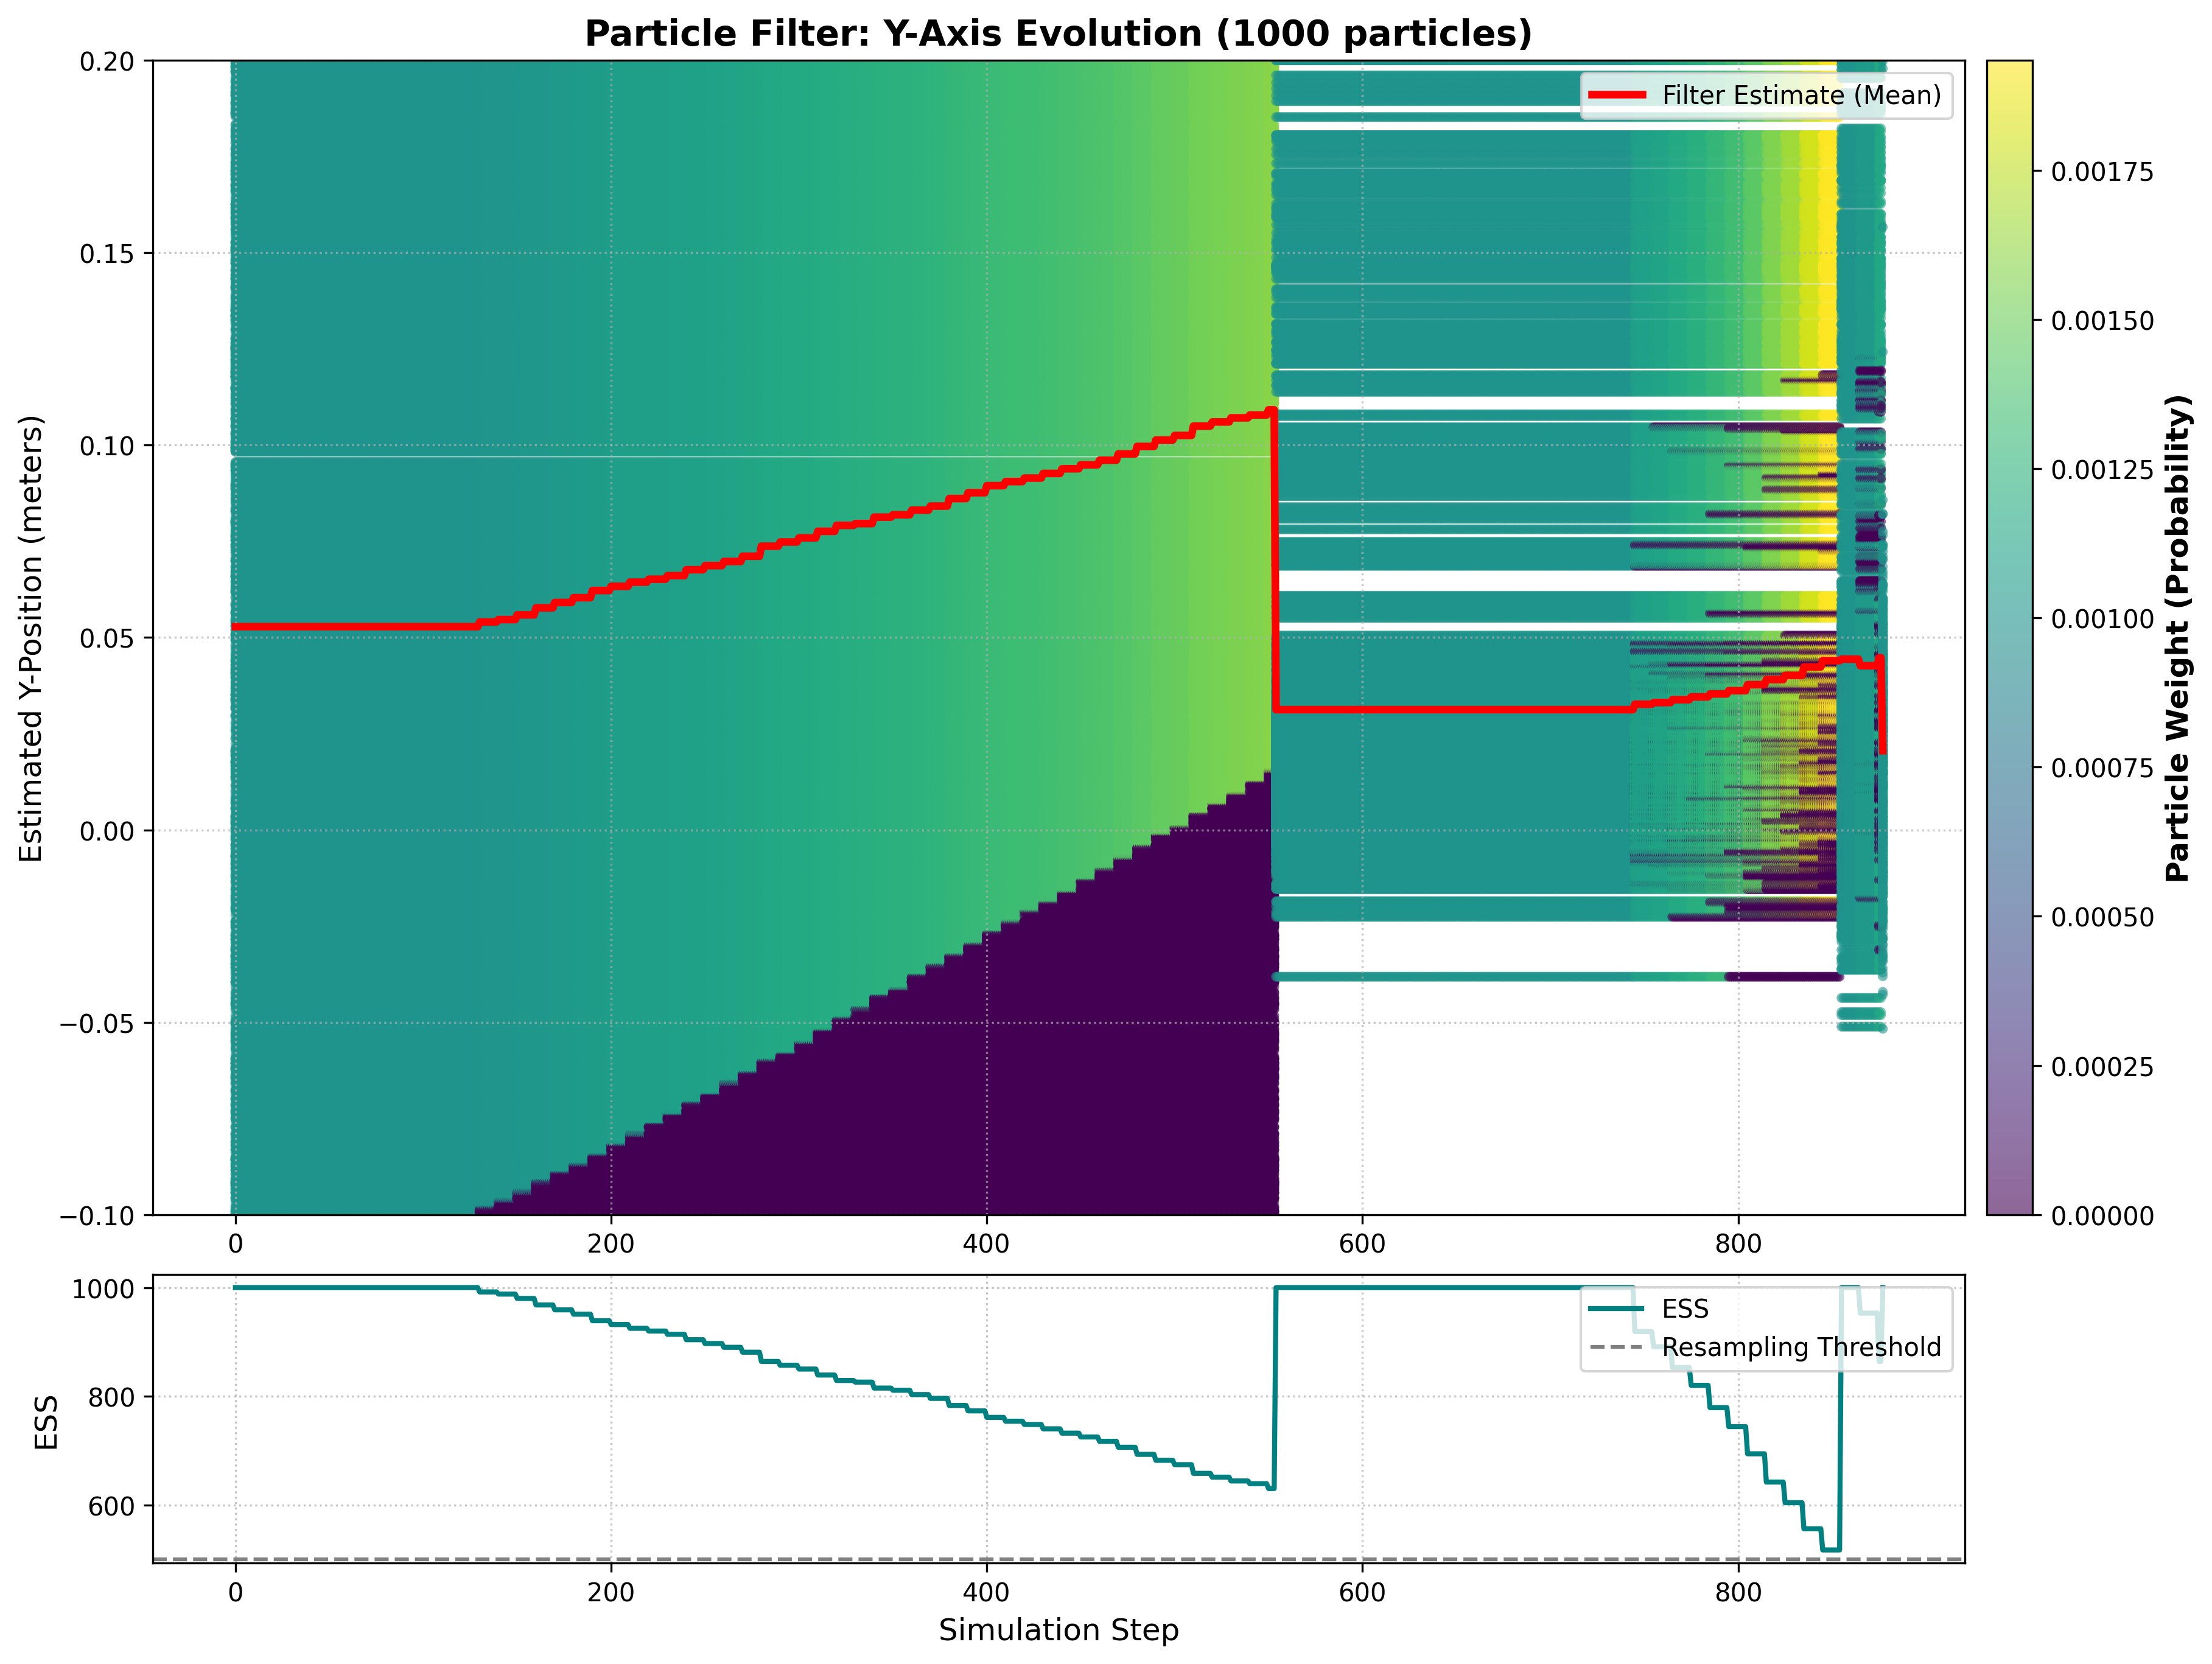
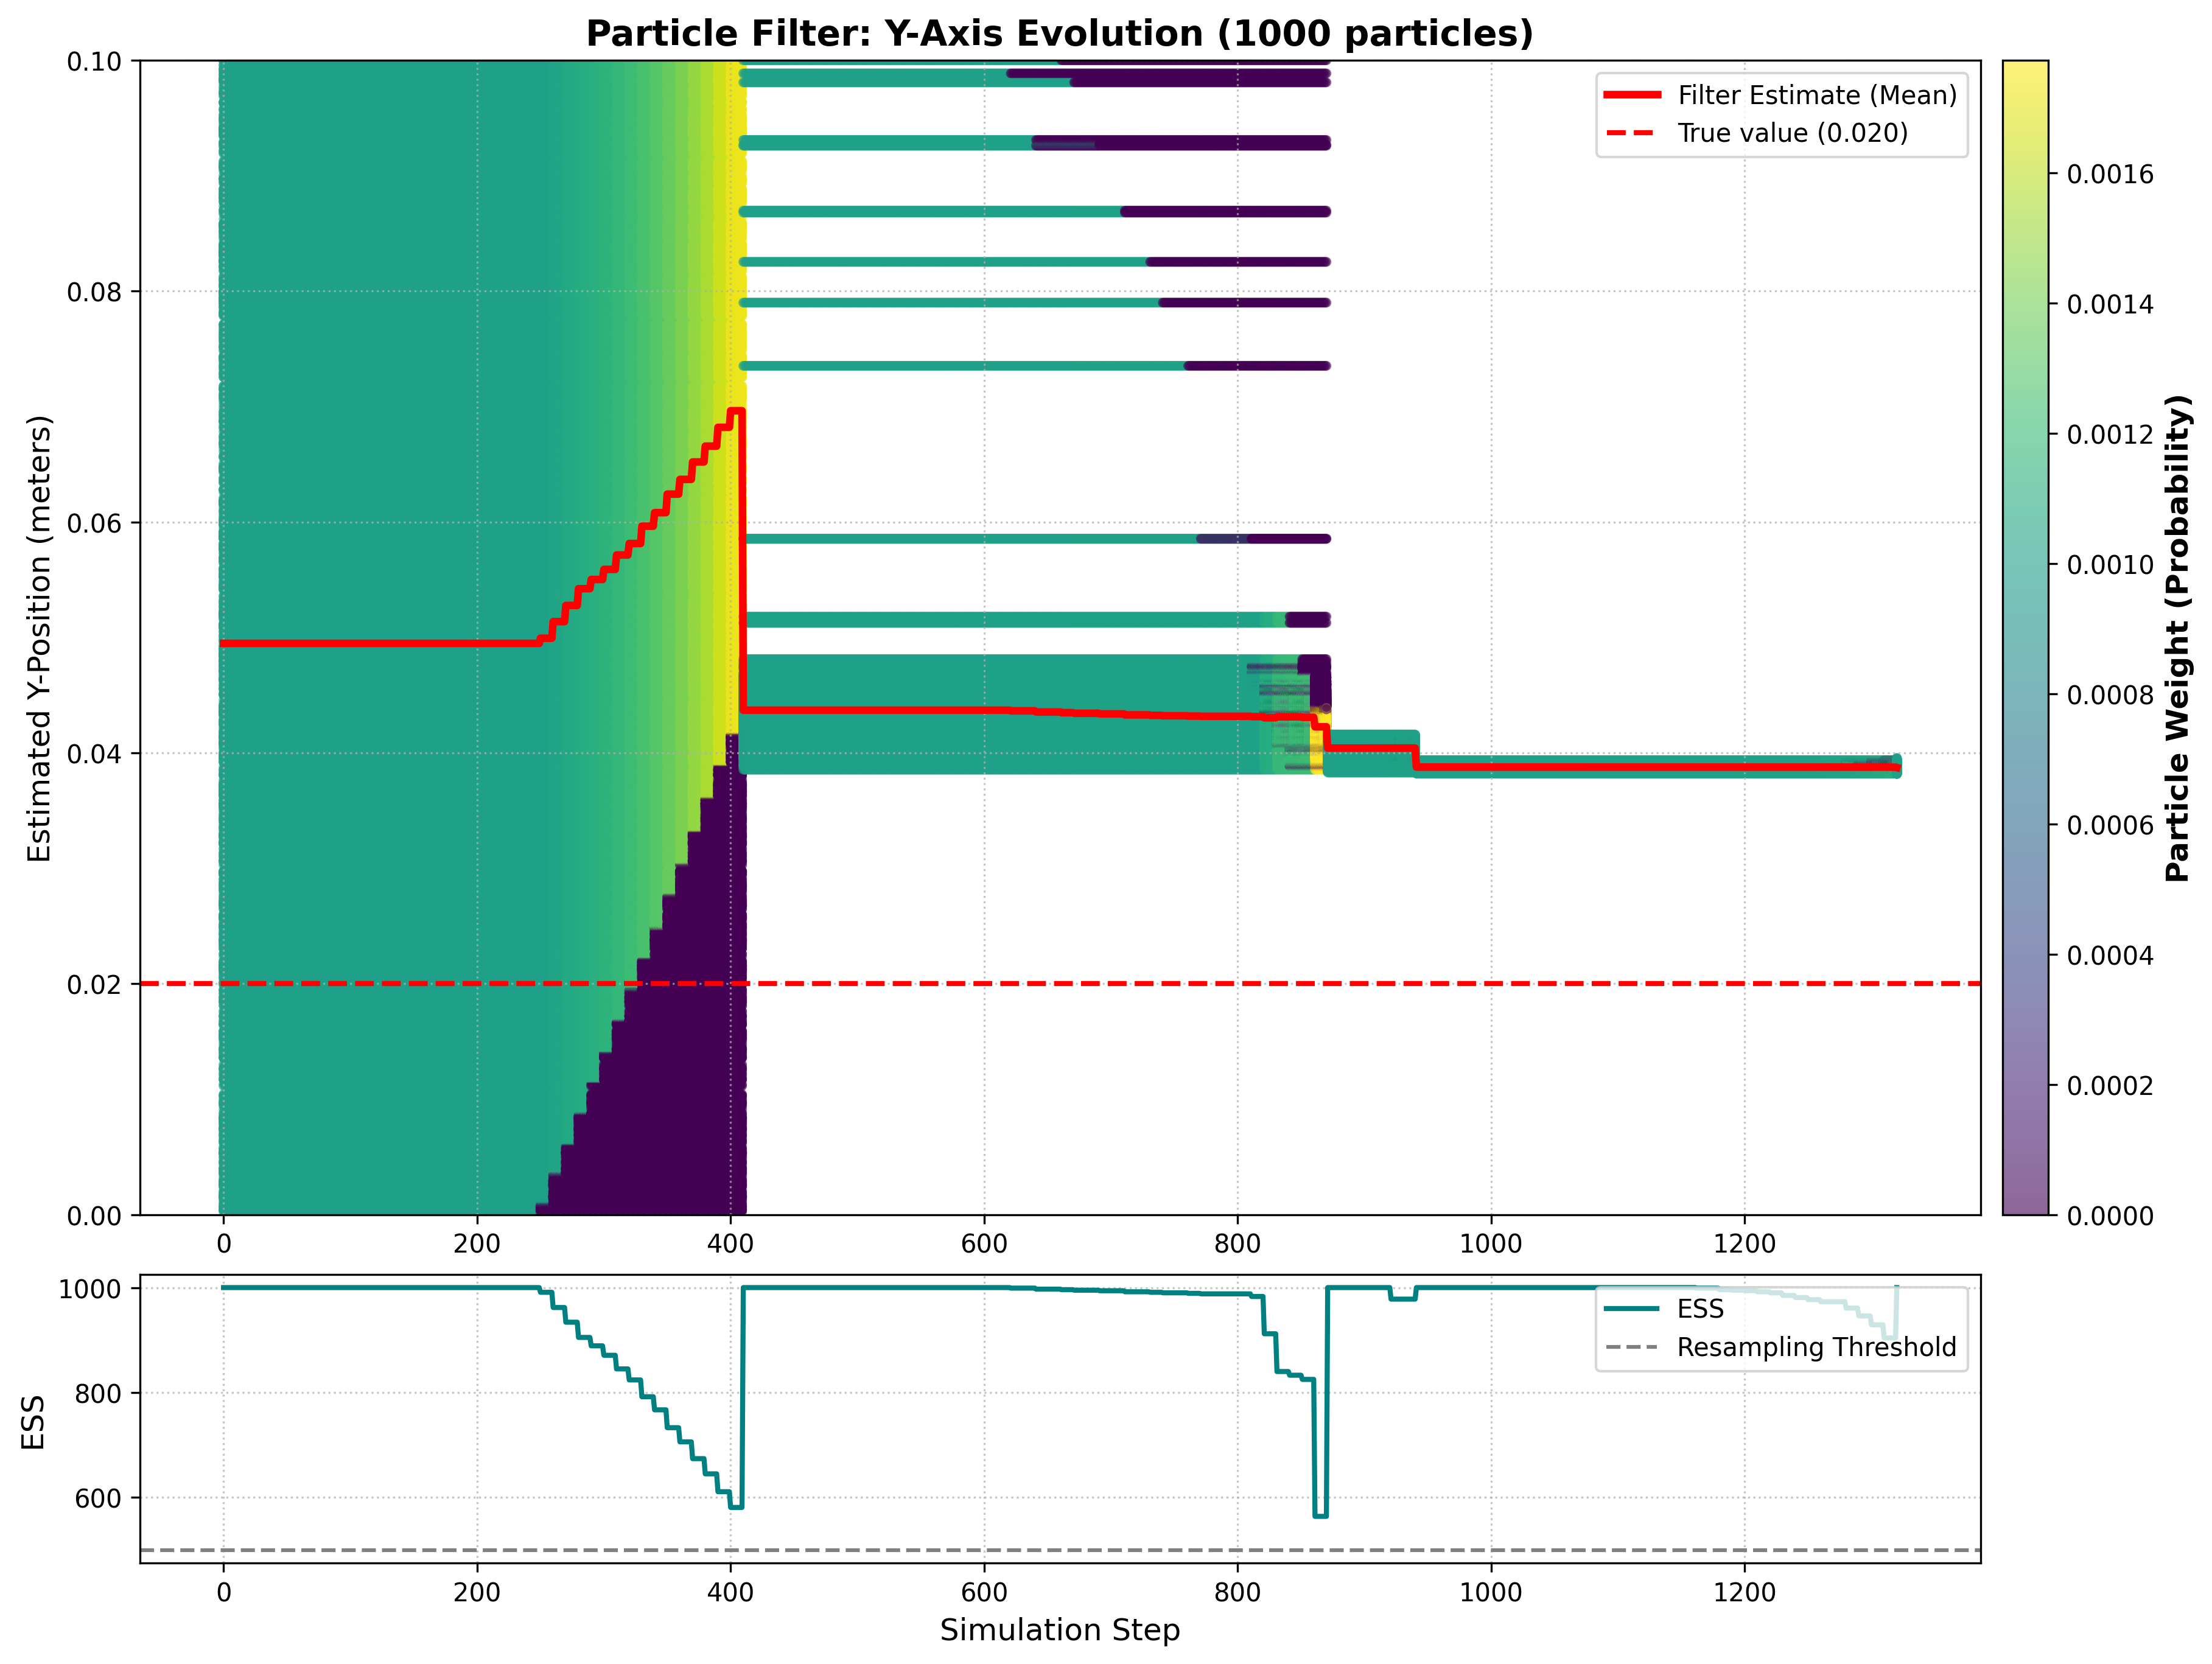
debug

diff --git a/src/skills/real_sweep.py b/src/skills/real_sweep.py
@@ -21,6 +21,11 @@ class ParticleVisualizer(Node):
     def publish_particles(self, particles, weights, fixed_x=0.55, fixed_z=0.09):
         marker_array = MarkerArray()
         
+        # 1. Wipe old RViz ghosts before drawing
+        clear_marker = Marker()
+        clear_marker.action = 3  # Marker.DELETEALL
+        marker_array.markers.append(clear_marker)
+        
         max_weight = max(weights) if len(weights) > 0 else 1.0
         if max_weight < 1e-8: max_weight = 1.0
         
@@ -32,44 +37,42 @@ class ParticleVisualizer(Node):
             marker.header.stamp = self.get_clock().now().to_msg()
             marker.ns = "particles"
             marker.id = i
-            marker.type = Marker.MESH_RESOURCE
-            marker.mesh_resource = "file:///home/lasigerobot24/Desktop/Simbay/models/Task_Board_TBv2023_m3b.stl"
+            
+            # ==========================================
+            # THE DOT VISUALS
+            # ==========================================
+            marker.type = Marker.SPHERE
             marker.action = Marker.ADD
             
-            # --- BOX DIMENSIONS (Meters) ---
-            box_length = 1.0#0.25  # 25 cm (X)
-            box_width  = 1.0#.15  # 15 cm (Y)
-            box_height = 1.0#0.08  # 8 cm  (Z)
+            # --- DOT SIZE (Meters) ---
+            dot_diameter = 0.01  # 1 cm diameter sphere
+            marker.scale.x = dot_diameter
+            marker.scale.y = dot_diameter
+            marker.scale.z = dot_diameter
+            
+            # --- DOT COLOR ---
+            marker.color.r = 0.0
+            marker.color.g = 1.0
+            marker.color.b = 1.0
+            
+            # Adjust transparency based on weight
+            relative_weight = weights[i] / max_weight
+            marker.color.a = max(0.1, float(relative_weight)) # Increased base alpha to 0.1 so small dots are visible
+            # ==========================================
             
             # --- MAP MATH TO 3D SPACE ---
             if dim == 1:
                 marker.pose.position.x = float(fixed_x)
                 marker.pose.position.y = float(particles[i] if particles.ndim == 1 else particles[i, 0])
-                # Assuming table is at Z=0.0 in the base frame! 
-                marker.pose.position.z = 0.05#box_height / 2.0
+                marker.pose.position.z = 0.05
             elif dim == 2:
                 marker.pose.position.x = float(particles[i, 0])
                 marker.pose.position.y = float(particles[i, 1])
-                marker.pose.position.z = 0.05#box_height / 2.0
+                marker.pose.position.z = 0.05
                 
             marker.pose.orientation.w = 1.0
             
-            # --- SIZE & COLOR ---
-            marker.scale.x = box_length
-            marker.scale.y = box_width
-            marker.scale.z = box_height
-            
-            # Color: Cyan/Blue
-            marker.color.r = 0.0
-            marker.color.g = 1.0
-            marker.color.b = 1.0
-            
-            # Transparency: Kept very low (0.02) because 50 large overlapping 
-            # boxes will quickly turn into a solid blue wall!
-            relative_weight = weights[i] / max_weight
-            marker.color.a = max(0.02, float(relative_weight))/2.0
-            
-            # Put the box into the array!
+            # Put the dot into the array!
             marker_array.markers.append(marker)
             
         # Publish the full array
@@ -130,8 +133,6 @@ def real_sweep_until_contact(robot, particle_filter, start_pos, end_pos, target_
         if elapsed_time > total_duration:
             break
             
-        planned_qpos = get_interpolated_qpos(sweep_traj, robot.dt, elapsed_time)
-
         full_measurements = robot.get_torque_reads() 
         current_torque_norm = np.linalg.norm(full_measurements[:3]) 
         
@@ -172,12 +173,12 @@ def real_sweep_until_contact(robot, particle_filter, start_pos, end_pos, target_
             'torques'  : full_measurements,
             'contact'  : contact,      
             'direction': sweep_direction,
-            'arm_pos'  : robot.get_ee_pos(), 
+            'arm_pos'  : current_ee_pos,
             'step_size': step_size
         }
         
         ctrl = {
-            'joints' : planned_qpos, 
+            'joints' : real_qpos,
             'gripper': 0.00
         }
         

diff --git a/src/estimation/particle_filter.py b/src/estimation/particle_filter.py
@@ -89,6 +89,7 @@ class ParticleFilterRegularized:
             # AND it must not be a Zombie (its accumulated weight must equal the max_weight)
             # (We multiply by 0.99 just to allow for microscopic floating-point rounding errors)
             perfect_mask = (likelihoods >= 0.99) & (new_weights >= max_weight * 0.99) & (max_weight > 0)
+            contact_mask = likelihoods >= 0.99
             
             num_perfect = perfect_mask.sum()
             
@@ -98,6 +99,7 @@ class ParticleFilterRegularized:
                 # If we have 0 perfect particles, it means the ones that hit were Zombies, 
                 # or the ones that survived the sweep missed the contact!
                 print(f"📉 No true perfect particles. Best surviving weight: {max_weight:.2e}")
+            self._print_contact_debug(observation, likelihoods, new_weights, contact_mask, perfect_mask)
         
         # Commit the new weights
         self.weights = new_weights
@@ -183,6 +185,55 @@ class ParticleFilterRegularized:
 
             # 8. Update particles in the motion model
             self.motion_model.change_internal_state(self.particles, current_state)
+
+    def _print_contact_debug(self, observation, likelihoods, new_weights, contact_mask, perfect_mask):
+        direction = np.asarray(observation.get('direction', []), dtype=float)
+        arm_pos = np.asarray(observation.get('arm_pos', []), dtype=float)
+        step_size = observation.get('step_size', None)
+
+        print("   [Contact Debug]")
+        if direction.size > 0:
+            print(f"      sweep direction: {np.array2string(direction, precision=3)}")
+        if arm_pos.size > 0:
+            print(f"      real arm pos: {np.array2string(arm_pos, precision=4)}")
+        if step_size is not None:
+            print(f"      step size: {step_size:.6f}")
+
+        self._print_particle_group_debug("likelihood==1 particles", contact_mask, new_weights)
+        self._print_particle_group_debug("true-perfect particles", perfect_mask, new_weights)
+
+        top_count = min(10, self.N)
+        top_idx = np.argsort(new_weights)[-top_count:][::-1]
+        top_particles = self.particles[top_idx]
+        top_weights = new_weights[top_idx]
+        print(f"      top {top_count} weighted particles:")
+        for rank, (particle, weight, likelihood) in enumerate(
+            zip(top_particles, top_weights, likelihoods[top_idx]), start=1
+        ):
+            print(
+                f"         #{rank}: p={np.array2string(particle, precision=4)} "
+                f"w={weight:.3e} likelihood={likelihood:.3f}"
+            )
+
+    def _print_particle_group_debug(self, label, mask, weights):
+        count = int(np.sum(mask))
+        print(f"      {label}: {count}")
+        if count == 0:
+            return
+
+        selected = self.particles[mask]
+        selected_weights = weights[mask]
+        min_vals = selected.min(axis=0)
+        max_vals = selected.max(axis=0)
+        mean_vals = selected.mean(axis=0)
+        spread_vals = max_vals - min_vals
+        weight_sum = selected_weights.sum()
+
+        print(f"         min:    {np.array2string(min_vals, precision=4)}")
+        print(f"         max:    {np.array2string(max_vals, precision=4)}")
+        print(f"         mean:   {np.array2string(mean_vals, precision=4)}")
+        print(f"         spread: {np.array2string(spread_vals, precision=4)}")
+        print(f"         raw weight sum before normalize: {weight_sum:.3e}")
 
     def step(self, control_input, observation, current_state):
         self.predict(control_input)

diff --git a/scripts/real_pos_estimation_2D.py b/scripts/real_pos_estimation_2D.py
@@ -50,11 +50,11 @@ WARP_DEVICE = "cuda:0" if USE_RAY else "cpu" # use the gpu on the remote compute
 USE_REAL_ROBOT = True
 
 # Filter Configuration
-NUM_PARTICLES = 1000  
+NUM_PARTICLES = 1000 
 ESS_THRESHOLD = 0.5
 
 # Workspace Limits (Y)
-MIN_Y, MAX_Y = -0.10, 0.20
+MIN_Y, MAX_Y = -0.00, 0.10
 MIN_X, MAX_X = 0.5, 0.6
 
 # Sweep Parameters
@@ -83,7 +83,7 @@ def main():
 
     initial_pos = robot.get_joints_pos() 
     if not np.all(initial_pos == FRANKA_HOME_QPOS):
-        move_to_home(robot) 
+        move_to_home(robot, velocity=0.3) 
 
     # --- NEW: INITIALIZE ROS 2 VISUALIZER ---
     print("Initializing RViz Particle Visualizer...")
@@ -155,7 +155,7 @@ def main():
     # ==========================================
     # PHASE 2: SWEEP BACKWARD (-Y)
     # ==========================================
-    """
+    
     print("\n--- Phase 2: Sweep Backward (-Y) ---")
     start_pos_y2 = np.array([FIXED_X, MAX_Y + MAX_BLOCK_HALF_SIZE_Y + SAFETY_DISTANCE, FIXED_Z])
     end_pos_y2 = np.array([FIXED_X, MIN_Y, FIXED_Z])
@@ -168,12 +168,12 @@ def main():
     )
 
     if not USE_REAL_ROBOT: print(f"🛑 Ground Truth After Swipe 2: {track_ground_truth(robot):.3f}")
-    """
+    
 
     # ==========================================
     # PHASE 3: SWEEP BACKWARD (-X)
     # ==========================================
-    """
+    
     print("\n--- Phase 3: Sweep Backward (-X) ---")
     SWEEP_QUAT = np.array([0.0, np.sqrt(2)/2, np.sqrt(2)/2, 0.0])
     FIXED_Y = particle_filter.estimate()[1]  # Use the best Y estimate from Phase 1 and 2
@@ -188,13 +188,13 @@ def main():
     )                           
 
     if not USE_REAL_ROBOT: print(f"🛑 Ground Truth After Swipe 3: {track_ground_truth(robot):.3f}")
-    """
+    
     
     # ==========================================
     # PHASE 4: SWEEP FORWARD (+X)
     # ==========================================
     print("\n--- Phase 4: Sweep Forward (+X) ---")
-    FIXED_Y = particle_filter.estimate()[1] 
+    #FIXED_Y = particle_filter.estimate()[1] 
     SWEEP_QUAT = np.array([0.0, np.sqrt(2)/2, np.sqrt(2)/2, 0.0])
     start_pos_x1 = np.array([MIN_X - MAX_BLOCK_HALF_SIZE_X - SAFETY_DISTANCE, FIXED_Y, FIXED_Z])
     end_pos_x1 = np.array([MAX_X, FIXED_Y, FIXED_Z])            

diff --git a/scripts/pos_estimation_1D.py b/scripts/pos_estimation_1D.py
@@ -28,12 +28,13 @@ USE_REAL_ROBOT = False
 # Filter Configuration
 NUM_PARTICLES = 50  
 ESS_THRESHOLD = 0.5
+DEBUG_PARTICLE_Y = 0.02
 
 # Workspace Limits (Y)
-MIN_Y, MAX_Y = 0.1, 0.2
+MIN_Y, MAX_Y = 0.0, 0.05
 
 # Sweep Parameters
-FIXED_X = 0.6
+FIXED_X = 0.55
 FIXED_Z = 0.08
 MAX_BLOCK_HALF_SIZE = 0.075 
 SAFETY_DISTANCE = 0.01
@@ -70,8 +71,14 @@ def main():
         ess_threshold_ratio=ESS_THRESHOLD
     )
 
-    #particle_viewer = mujoco.viewer.launch_passive(container.robots[0].model, container.robots[0].data)
-    #container.robots[0].viewer = particle_viewer
+    particle_filter.particles[0, 0] = DEBUG_PARTICLE_Y
+    particle_filter.update_internal_state({
+        'qpos': robot.get_joints_pos(),
+        'qvel': robot.get_joints_vel()
+    })
+    particle_viewer = mujoco.viewer.launch_passive(container.robots[0].model, container.robots[0].data)
+    container.robots[0].viewer = particle_viewer
+    print(f"[Debug] Particle 0 viewer pinned at Y={DEBUG_PARTICLE_Y:.3f}")
 
 
     # ==========================================

diff --git a/scripts/warp_pos_estimation_2D.py b/scripts/warp_pos_estimation_2D.py
@@ -25,11 +25,11 @@ from src.warp_estimation.warp_particle_filter import build_warp_particle_filter
 # Disable to run locally: set USE_RAY=False
 # note: if USE_RAY=false it will use the CPU which is slower on the MujocoWarp so for testing/development use the pos_estimation_2d.py
 # script because it will run a small amount of particles faster. so use USE_RAY=true this with 200+ particles
-USE_RAY = True
-USE_GPU = True
-RAY_ADDRESS = os.environ.get('SIMBAY_RAY_IP') # e.g. ray://'localhost:10001'
+USE_RAY = False
+USE_GPU = False
+RAY_ADDRESS = f"ray://{os.environ.get('SIMBAY_RAY_IP', 'localhost')}:10002"
 RAY_NUM_GPUS = 1.0 
-RAY_DEBUG = True # print ray orchestraion logs + remote worker logs
+RAY_DEBUG = False # print ray orchestraion logs + remote worker logs
 WARP_DEVICE = "cuda:0" if USE_GPU else "cpu" # use the gpu on the remote(USE_RAY=True) or local(USE_RAY=False) computer
 
 # ==========================================
@@ -42,10 +42,10 @@ ESS_THRESHOLD = 0.5
 
 # Workspace Limits (X, Y)
 MIN_X, MAX_X = 0.5, 0.6
-MIN_Y, MAX_Y = 0.1, 0.2
+MIN_Y, MAX_Y = 0.0, 0.1
 
 # Sweep Parameters
-FIXED_Z = 0.08
+FIXED_Z = 0.09
 MAX_BLOCK_HALF_SIZE = 0.125
 SAFETY_DISTANCE = 0.01
 SWEEP_VEL = 0.01

diff --git a/scripts/pos_estimation_2D.py b/scripts/pos_estimation_2D.py
@@ -1,6 +1,12 @@
+import os
+import sys
+
 import matplotlib.pyplot as plt
 import mujoco.viewer
 import numpy as np
+
+
+sys.path.append(os.path.abspath(os.path.join(os.path.dirname(__file__), '..')))
 
 from src.estimation import BinaryContactMeasurementModel
 from src.estimation import ParticleFilterRegularized
@@ -18,12 +24,12 @@ from src.utils import plot_particle_evolution
 # ==========================================
 USE_REAL_ROBOT = False
 
-NUM_PARTICLES = 300
+NUM_PARTICLES = 100
 ESS_THRESHOLD = 0.5
 
 # Workspace Limits (X, Y)
 MIN_X, MAX_X = 0.5, 0.6
-MIN_Y, MAX_Y = 0.1, 0.2
+MIN_Y, MAX_Y = 0.0, 0.1
 
 # Sweep Parameters
 FIXED_Z = 0.08

diff --git a/src/estimation/measurement.py b/src/estimation/measurement.py
@@ -59,11 +59,11 @@ class BinaryContactMeasurementModel(BaseMeasurementModel):
             # Negative Info (Kill Partiles hit before real_robot)
             # ==========================================
             if real_contact == 0 and contact == 1:  # Negative Info (Kill Partiles hit before real_robot)
-                likelihoods[i] = 0.001
+                likelihoods[i] = 0.01
                 #print("Killed because contact")
 
             elif real_contact == 1 and contact == 0: # Positive Info (Kill Particles that haven't hit when real_robot has)
-                likelihoods[i] = 0.001
+                likelihoods[i] = 0.01
                 #print("killed because no contact")
 
 

diff --git a/src/utils/constants.py b/src/utils/constants.py
@@ -9,7 +9,7 @@ DEFAULT_OBJECT_PROPS = {
     #"type":     "box",   
     #"size":     (0.25/2, 0.15/2, 0.08/2),      
     "mass":     1.0,                    
-    "pos":      (0.55, 0.15, 0.07),
+    "pos":      (0.55, 0.02, 0.07),
     "angle": np.radians(0)                     
 }
 